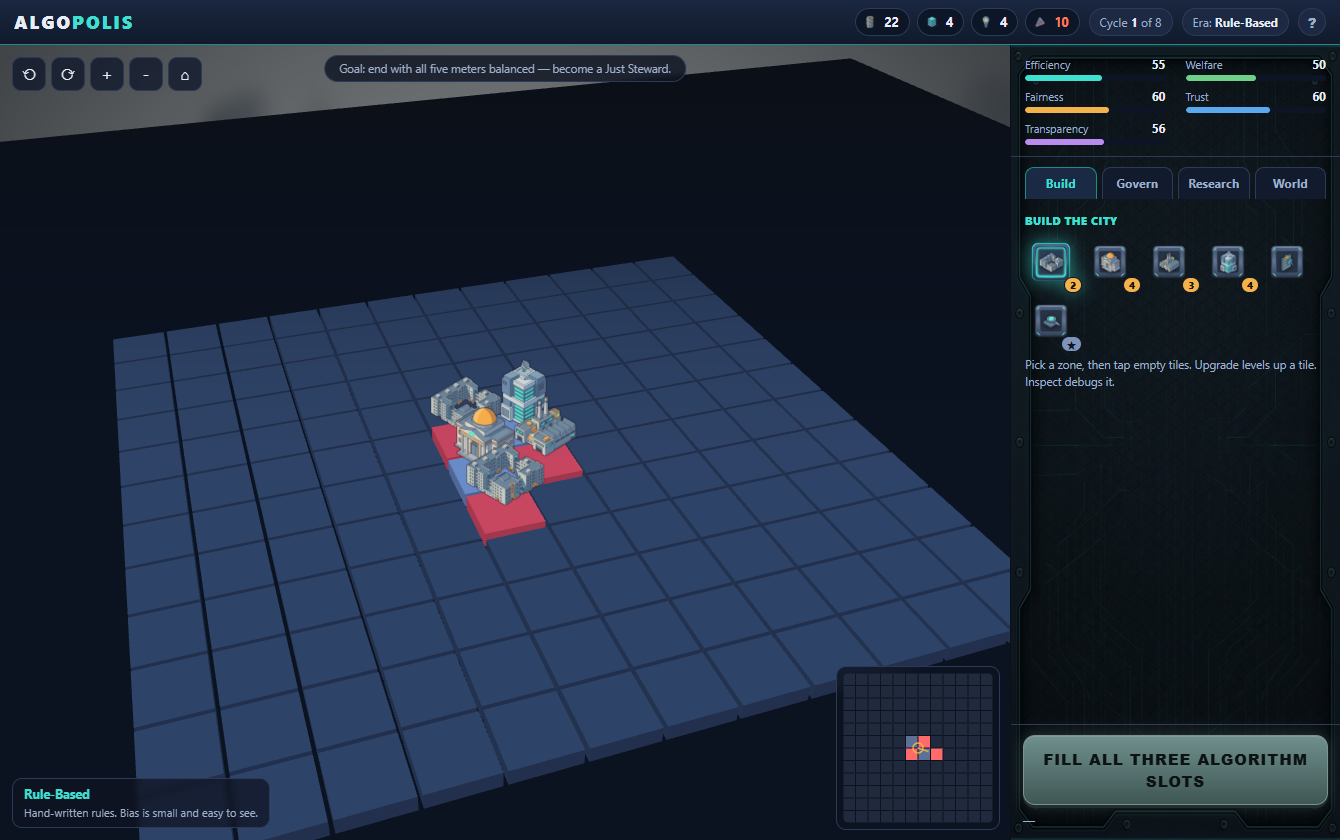
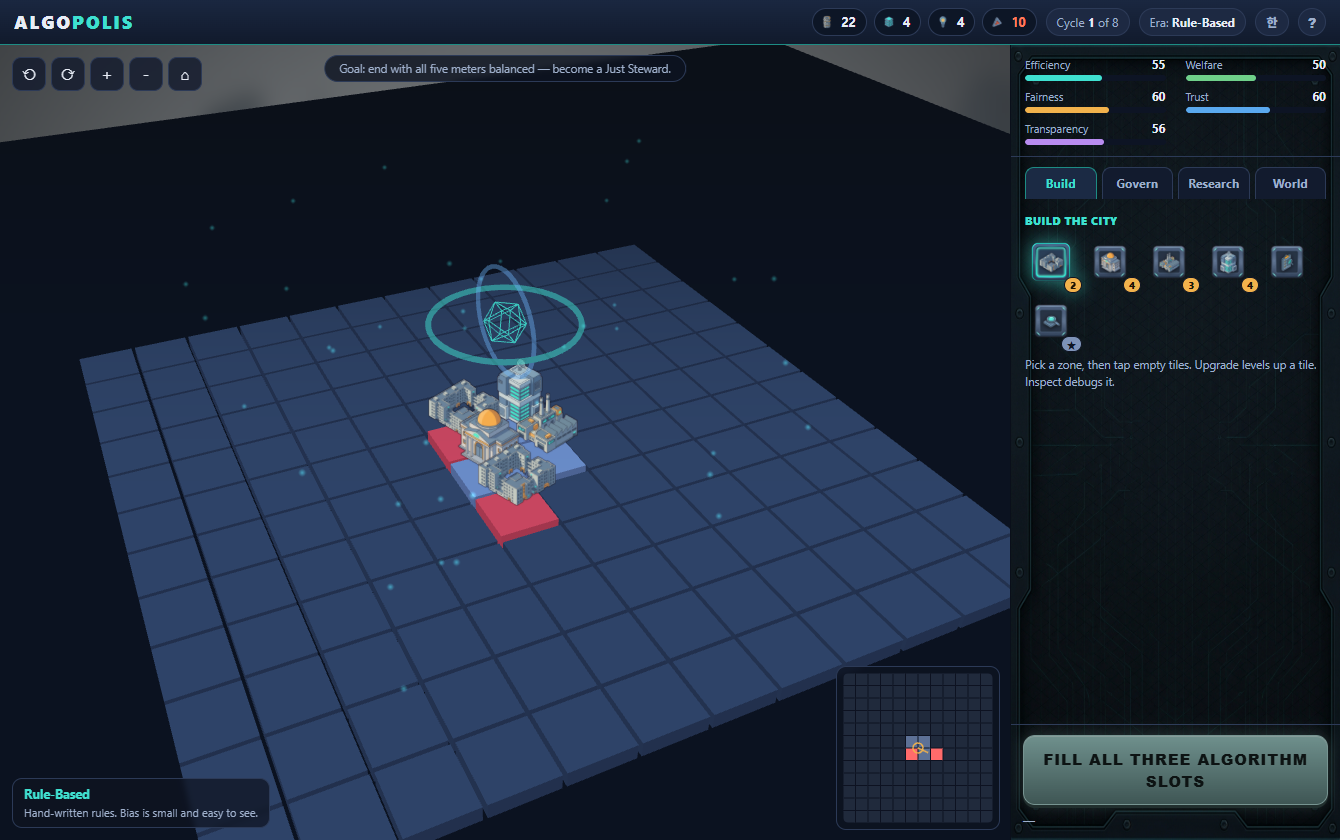
Add motion: AI core hologram, ambient data motes, resource-flow particles, idle auto-orbit

diff --git a/index.html b/index.html
@@ -350,6 +350,7 @@ function runCycle(){
   rivals.forEach(r=>{const tg=NAT.find(n=>n.key===r.key).t;METERS.forEach(k=>{r.m[k]=clamp(r.m[k]+(tg[k]-r.m[k])*0.08+rnd(-2,2));});});
   cycle++; postLog(welfareT,fairnessT,effT,unrestDelta);
   runDebrief(welfareT,fairnessT,effT,unrestDelta);
+  spawnFlow();
   // collapse fail
   if(meters.trust<25||res.unrest>=95){ endGame("collapse"); return; }
   if(cycle>8){ endGame(); return; }
@@ -509,6 +510,7 @@ function runDebrief(w,f,e,u){const B=built();const starved=B.filter(t=>t.served/
 const glcanvas=$("c");
 const A={icURL:{}};
 let renderer,scene,cam,ray,tileMeshes=[],bldSprites=[],TEX={},hover=-1,VW=0,VH=0;
+let parts=[],PG,PPOS,PCOL,PTS,CORE,lastInput=0;const PMAX=440;
 let azim=Math.PI*0.25,polar=0.95,radius=GRID*1.4,azimT=azim,polarT=polar,radiusT=radius,pulse=0;
 const target=new THREE.Vector3(0,0.3,0);
 const W2=g=>g-(GRID-1)/2;
@@ -543,6 +545,23 @@ function initScene(){
   const gp=new THREE.Mesh(new THREE.PlaneGeometry(GRID*3.4,GRID*3.4),new THREE.MeshBasicMaterial({color:0x0b1220}));gp.rotation.x=-Math.PI/2;gp.position.y=-0.28;scene.add(gp);
   const geo=new THREE.BoxGeometry(0.94,0.24,0.94);
   for(const t0 of tiles){const idx=t0.gy*GRID+t0.gx;const m=new THREE.Mesh(geo,new THREE.MeshLambertMaterial({color:0x26344f}));m.position.set(W2(t0.gx),0,W2(t0.gy));m.userData.idx=idx;scene.add(m);tileMeshes[idx]=m;}
+  // soft particle sprite texture
+  const pc=document.createElement("canvas");pc.width=pc.height=64;const px=pc.getContext("2d");const gg=px.createRadialGradient(32,32,0,32,32,32);gg.addColorStop(0,"rgba(255,255,255,1)");gg.addColorStop(.4,"rgba(255,255,255,.55)");gg.addColorStop(1,"rgba(255,255,255,0)");px.fillStyle=gg;px.fillRect(0,0,64,64);
+  // flowing-data particle cloud (allocation visualization + ambient motes)
+  PG=new THREE.BufferGeometry();PPOS=new Float32Array(PMAX*3).fill(-999);PCOL=new Float32Array(PMAX*3);
+  PG.setAttribute("position",new THREE.BufferAttribute(PPOS,3));PG.setAttribute("color",new THREE.BufferAttribute(PCOL,3));
+  PTS=new THREE.Points(PG,new THREE.PointsMaterial({size:.26,map:new THREE.CanvasTexture(pc),vertexColors:true,transparent:true,depthWrite:false,blending:THREE.AdditiveBlending,opacity:.95}));
+  scene.add(PTS);
+  for(let n=0;n<PMAX;n++)parts.push({active:false,amb:false,fx:0,fy:0,fz:0,tx:0,ty:0,tz:0,t:0,sp:0,ph:0,r:0,g:0,b:0});
+  // ambient floating data motes (first 44 particles, persistent)
+  for(let n=0;n<44;n++){const p=parts[n];p.active=true;p.amb=true;p.fx=W2(rnd(1,GRID-2));p.fz=W2(rnd(1,GRID-2));p.fy=.4+rnd(0,3);p.ph=rnd(0,6.28);p.r=.22;p.g=.85;p.b=.8;}
+  // central holographic AI core
+  CORE=new THREE.Group();
+  const ring=new THREE.Mesh(new THREE.TorusGeometry(1.15,.045,8,48),new THREE.MeshBasicMaterial({color:0x3fe0d0,transparent:true,opacity:.5}));ring.rotation.x=Math.PI/2;CORE.add(ring);
+  const ring2=new THREE.Mesh(new THREE.TorusGeometry(.85,.035,8,40),new THREE.MeshBasicMaterial({color:0x6fb8ff,transparent:true,opacity:.4}));CORE.add(ring2);
+  const orb=new THREE.Mesh(new THREE.IcosahedronGeometry(.34,0),new THREE.MeshBasicMaterial({color:0x3fe0d0,wireframe:true,transparent:true,opacity:.6}));CORE.add(orb);
+  CORE.position.set(0,2.4,0);scene.add(CORE);
+  lastInput=performance.now();
   resize();requestAnimationFrame(loop);
 }
 function resize(){if(!renderer)return;const r=glcanvas.getBoundingClientRect();VW=r.width;VH=r.height;renderer.setSize(VW,VH,false);cam.aspect=VW/Math.max(1,VH);cam.updateProjectionMatrix();}
@@ -561,19 +580,36 @@ function syncScene(now){const t=now||0;
 }
 function camUpdate(){azim+=(azimT-azim)*0.18;polar+=(polarT-polar)*0.18;radius+=(radiusT-radius)*0.18;
   cam.position.set(target.x+radius*Math.sin(polar)*Math.sin(azim),target.y+radius*Math.cos(polar),target.z+radius*Math.sin(polar)*Math.cos(azim));cam.lookAt(target);}
-function loop(now){if(renderer){syncScene(now);camUpdate();renderer.render(scene,cam);}drawMini();pulse*=0.93;
+function freeP(){for(let n=44;n<parts.length;n++)if(!parts[n].active)return parts[n];return null;}
+function spawnFlow(){if(!PG)return;const B=built();let bud=300;
+  for(const t0 of B){const cov=t0.served/Math.max(1,t0.trueNeed),cnt=Math.max(1,Math.round(Math.min(cov,1.3)*9)),teal=cov>=0.5;
+    for(let k=0;k<cnt&&bud>0;k++){const p=freeP();if(!p)break;bud--;p.active=true;p.amb=false;p.t=0;p.sp=.016+rnd(0,.014);
+      p.fx=rnd(-.3,.3);p.fy=2.4+rnd(-.2,.2);p.fz=rnd(-.3,.3);p.tx=W2(t0.gx)+rnd(-.25,.25);p.ty=.5;p.tz=W2(t0.gy)+rnd(-.25,.25);
+      if(teal){p.r=.25;p.g=.88;p.b=.82;}else{p.r=1;p.g=.42;p.b=.42;}}}}
+function updateParticles(){if(!PG)return;
+  for(let n=0;n<parts.length;n++){const p=parts[n],o=n*3;if(!p.active){PPOS[o+1]=-999;continue;}
+    if(p.amb){p.ph+=.012;PPOS[o]=p.fx+Math.sin(p.ph)*.35;PPOS[o+1]=p.fy+Math.sin(p.ph*.7)*.3;PPOS[o+2]=p.fz+Math.cos(p.ph)*.35;PCOL[o]=p.r*.5;PCOL[o+1]=p.g*.5;PCOL[o+2]=p.b*.5;continue;}
+    p.t+=p.sp;if(p.t>=1){p.active=false;PPOS[o+1]=-999;continue;}
+    const e=p.t<.5?2*p.t*p.t:1-Math.pow(-2*p.t+2,2)/2,f=1-Math.abs(p.t-.5)*1.3;
+    PPOS[o]=p.fx+(p.tx-p.fx)*e;PPOS[o+1]=p.fy+(p.ty-p.fy)*e+Math.sin(p.t*3.14159)*.5;PPOS[o+2]=p.fz+(p.tz-p.fz)*e;
+    PCOL[o]=p.r*f;PCOL[o+1]=p.g*f;PCOL[o+2]=p.b*f;}
+  PG.attributes.position.needsUpdate=true;PG.attributes.color.needsUpdate=true;}
+function loop(now){if(renderer){syncScene(now);updateParticles();
+    if(CORE){CORE.rotation.y+=.012;CORE.children[2].rotation.x+=.02;CORE.children[2].rotation.y+=.026;CORE.scale.setScalar(1+pulse*.32);CORE.position.y=2.4+Math.sin(now/900)*.12;}
+    if(now-lastInput>4000)azimT+=.0018;
+    camUpdate();renderer.render(scene,cam);}drawMini();pulse*=0.93;
   if(dev){frames++;if(now-fpsAt>=500){fps=Math.round(frames*1000/(now-fpsAt));frames=0;fpsAt=now;$("dev").textContent=fps+" fps";}}requestAnimationFrame(loop);}
 function pickIdx(px,py){const r=glcanvas.getBoundingClientRect();ray.setFromCamera({x:((px-r.left)/r.width)*2-1,y:-((py-r.top)/r.height)*2+1},cam);const hits=ray.intersectObjects(tileMeshes.filter(Boolean));return hits.length?hits[0].object.userData.idx:-1;}
 let down=false,moved=false,px0=0,py0=0,az0=0,po0=0;
-glcanvas.addEventListener("pointerdown",e=>{down=true;moved=false;px0=e.clientX;py0=e.clientY;az0=azim;po0=polar;glcanvas.setPointerCapture(e.pointerId);});
+glcanvas.addEventListener("pointerdown",e=>{down=true;moved=false;px0=e.clientX;py0=e.clientY;az0=azim;po0=polar;lastInput=performance.now();glcanvas.setPointerCapture(e.pointerId);});
 glcanvas.addEventListener("pointermove",e=>{if(down){const dx=e.clientX-px0,dy=e.clientY-py0;if(Math.abs(dx)+Math.abs(dy)>6)moved=true;azim=az0-dx*0.006;polar=Math.max(0.35,Math.min(1.35,po0-dy*0.005));azimT=azim;polarT=polar;}else hover=pickIdx(e.clientX,e.clientY);});
 glcanvas.addEventListener("pointerup",e=>{down=false;if(moved||ended)return;const idx=pickIdx(e.clientX,e.clientY);if(idx<0)return;const t0=tiles[idx];
   if(tool==="inspect"){openDebug(t0);}
   else if(tool==="upgrade"){if(!t0.zone){openDebug(t0);return;}if(t0.level>=3){flash("Max level");return;}const c=upgradeCost(t0);if(res.budget<c){flash(T().noBudget);return;}res.budget-=c;t0.level++;t0.trueNeed=clamp(t0.trueNeed+10);refreshHUD();}
   else{if(!t0.zone){if(placeZone(t0,tool,false)){refreshHUD();tourCheck("build");}else flash(T().noBudget);}else openDebug(t0);}});
 glcanvas.addEventListener("pointerleave",()=>{hover=-1;down=false;});
-glcanvas.addEventListener("wheel",e=>{e.preventDefault();radiusT=Math.max(GRID*0.7,Math.min(GRID*2.3,radiusT+e.deltaY*0.012));},{passive:false});
-function rot(d){azimT+=d*Math.PI/2;}function zoomB(d){radiusT=Math.max(GRID*0.7,Math.min(GRID*2.3,radiusT+d));}function camReset(){azimT=Math.PI*0.25;polarT=0.95;radiusT=GRID*1.4;target.set(0,0.3,0);}
+glcanvas.addEventListener("wheel",e=>{e.preventDefault();lastInput=performance.now();radiusT=Math.max(GRID*0.7,Math.min(GRID*2.3,radiusT+e.deltaY*0.012));},{passive:false});
+function rot(d){azimT+=d*Math.PI/2;lastInput=performance.now();}function zoomB(d){radiusT=Math.max(GRID*0.7,Math.min(GRID*2.3,radiusT+d));lastInput=performance.now();}function camReset(){azimT=Math.PI*0.25;polarT=0.95;radiusT=GRID*1.4;target.set(0,0.3,0);lastInput=performance.now();}
 $("camRotL").onclick=()=>rot(-1);$("camRotR").onclick=()=>rot(1);$("camIn").onclick=()=>zoomB(-GRID*0.25);$("camOut").onclick=()=>zoomB(GRID*0.25);$("camHome").onclick=camReset;
 const mini=$("mini"),mctx=mini.getContext("2d");
 function drawMini(){const Wd=mini.width,H=mini.height,cell=Wd/GRID;mctx.clearRect(0,0,Wd,H);mctx.fillStyle="rgba(13,19,33,.6)";mctx.fillRect(0,0,Wd,H);